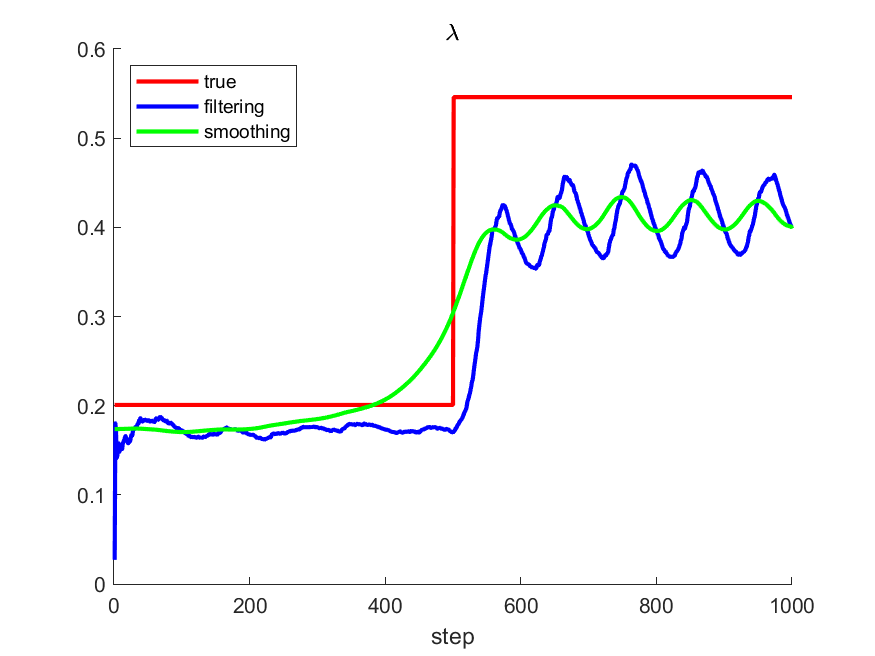
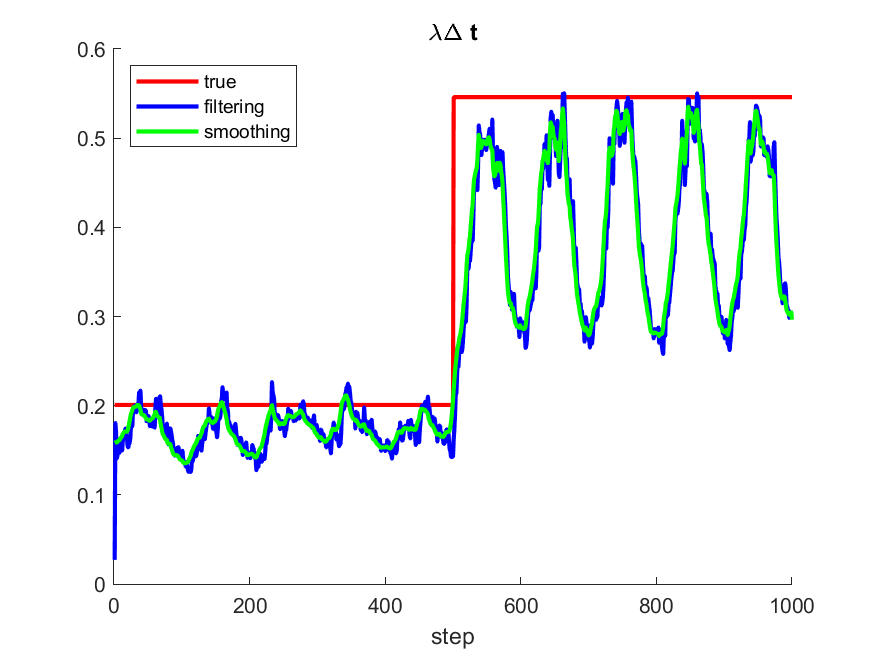
adjust Q, better results

Changed region(s): [[0.1234, 0.122, 0.9257, 0.7317], [0.4937, 0.0305, 0.5554, 0.061]]

diff --git a/demo.m b/demo.m
@@ -58,10 +58,10 @@ hold off
 %% fit
 
 [theta_fit1,W_fit1] =...
-    ppafilt_compoisson(spk_vec,X_lam,G_nu,ones(2,1),eye(2),eye(2),1e-5*eye(2),dt);
+    ppafilt_compoisson(spk_vec,X_lam,G_nu,ones(2,1),eye(2),eye(2),2*1e-3*eye(2),dt);
 
 [theta_fit2,W_fit2] =...
-    ppasmoo_compoisson(spk_vec,X_lam,G_nu,ones(2,1),eye(2),eye(2),1e-5*eye(2),dt);
+    ppasmoo_compoisson(spk_vec,X_lam,G_nu,ones(2,1),eye(2),eye(2),2*1e-3*eye(2),dt);
 
 figure(4)
 hold on
@@ -89,7 +89,7 @@ plot(lam_true*dt, 'r', 'LineWidth', 2)
 plot(lam_fit1*dt, 'b', 'LineWidth', 2)
 plot(lam_fit2*dt, 'g', 'LineWidth', 2)
 legend('true', 'filtering', 'smoothing', 'Location','northwest')
-title('\lambda')
+title('\lambda\Delta t')
 xlabel('step')
 hold off
 saveas(lambda, 'lambda.png')
@@ -100,7 +100,7 @@ plot(nu_true*dt, 'r', 'LineWidth', 2)
 plot(nu_fit1*dt, 'b', 'LineWidth', 2)
 plot(nu_fit2*dt, 'g', 'LineWidth', 2)
 legend('true', 'filtering', 'smoothing', 'Location','northwest')
-title('\nu')
+title('\nu\Delta t')
 xlabel('step')
 hold off
 saveas(nu, 'nu.png')
